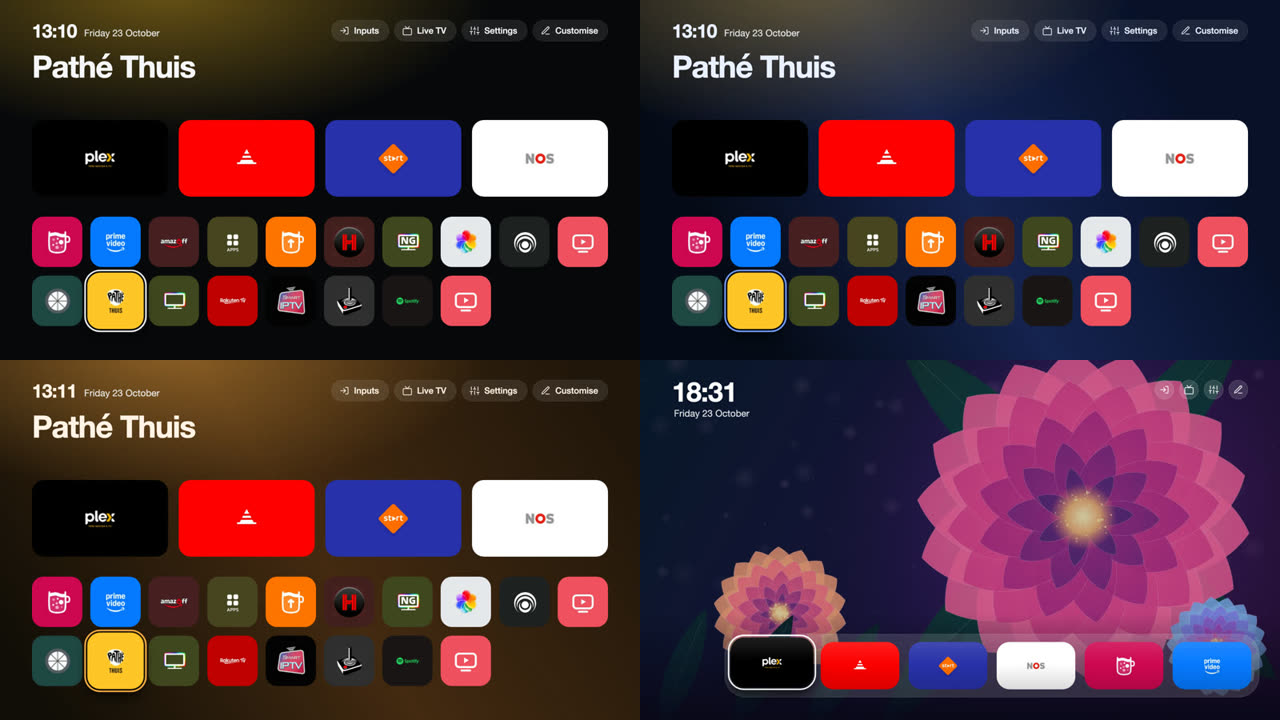
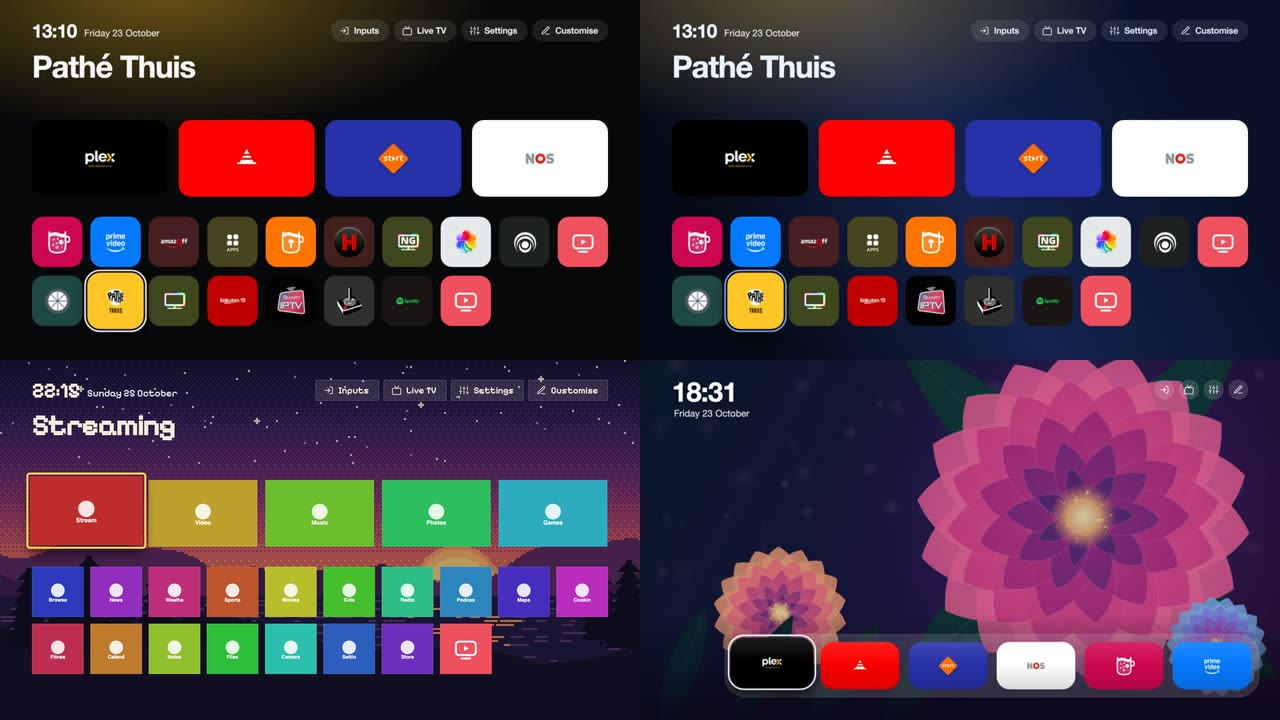
README and documentation home: install from the Homebrew Channel (the repository URL) next to the command over SSH. The README's theme picture shows Pixel instead of Warm.

diff --git a/README.md b/README.md
@@ -21,8 +21,8 @@ sets up, updates and removes everything.
 
 * **webOS**: 5 and newer (2020 models and later). webOS 4 and older have no systemd and an old Node.js; the setup stops before it
   changes anything. LG names its versions two ways: [webOS version numbers](https://lasharor.github.io/cleanyourtv-WebOS/tested-tvs/#webos-version-numbers) gives both.
-* **Access**: a TV rooted with the [Homebrew Channel](https://webosbrew.org) ([rootmy.tv](https://rootmy.tv)), SSH as `root` for
-  the install command, and internet access on the TV for the download.
+* **Access**: a TV rooted with the [Homebrew Channel](https://webosbrew.org) ([rootmy.tv](https://rootmy.tv)) and internet access
+  on the TV for the download. Install from the Homebrew Channel, or with one command over SSH as `root`.
 * **Tested hardware**: LG OLED65G26LA on webOS 25. Other TVs are reported in
   [Tested TVs](https://lasharor.github.io/cleanyourtv-WebOS/tested-tvs/); an unlisted firmware is set up when LG's Home is of the
   flutter or web kind, and otherwise the setup stops and offers **Set up anyway**.
@@ -34,11 +34,19 @@ sets up, updates and removes everything.
 ## Quick start
 
 1. Root the TV and install the [Homebrew Channel](https://webosbrew.org).
-2. From your computer, with your TV's IP address, install the manager app:
+2. Install the manager app, one of two ways:
+   - **From the Homebrew Channel.** Open the Homebrew Channel, the gear at the top, **Add repository**, and enter
 
-   ```sh
-   ssh root@192.168.1.50 'curl -fsSL https://raw.githubusercontent.com/lasharor/cleanyourtv-WebOS/main/install.sh | sh'
-   ```
+     ```text
+     https://github.com/lasharor/cleanyourtv-WebOS/releases/latest/download/apps.json
+     ```
+
+     **CleanYourTV** then shows in the channel's list: open it and choose **Install**. New releases show there as updates.
+   - **From your computer**, with your TV's IP address:
+
+     ```sh
+     ssh root@192.168.1.50 'curl -fsSL https://raw.githubusercontent.com/lasharor/cleanyourtv-WebOS/main/install.sh | sh'
+     ```
 
 3. On the TV, open **CleanYourTV**, choose the options and **Set up now**. It takes about a minute and the screen blinks once.
 
@@ -82,7 +90,7 @@ Pick how Home looks in the manager app: colours, the position and size of the cl
 speed. The themes are in [`themes/`](themes/) of this repository: the TV reads them from GitHub and downloads one when you choose it,
 so a new theme needs a pull request and no release ([how](https://lasharor.github.io/cleanyourtv-WebOS/themes/#contributing-a-theme)).
 
-<p align="center"><a href="themes/"><img src="docs/screenshots/themes-readme.jpg" alt="Classic, Midnight, Warm and Bloom themes" width="800"></a></p>
+<p align="center"><a href="themes/"><img src="docs/screenshots/themes-readme.jpg" alt="Classic, Midnight, Pixel and Bloom themes" width="800"></a></p>
 
 ---
 

diff --git a/docs/index.md b/docs/index.md
@@ -29,7 +29,7 @@ services you choose (update checks go to GitHub). See [What it changes on the TV
 
 | | |
 |---|---|
-| Needs | An LG webOS TV that is **rooted** with the Homebrew Channel, and SSH access as `root` for the install command. |
+| Needs | An LG webOS TV that is **rooted** with the Homebrew Channel. Install from the Homebrew Channel, or with one command over SSH as `root`. |
 | webOS | **webOS 5 and newer** (2020 models and later). webOS 4 and older have no systemd and an old Node.js; setup stops before it changes anything. |
 | Tested | LG OLED65G26LA on webOS 25. Other TVs are reported in [Tested TVs](tested-tvs.md). |
 | Not needed | A computer app, a server, a cloud account. The service runs on the TV. |
@@ -50,7 +50,8 @@ services you choose (update checks go to GitHub). See [What it changes on the TV
 ## Where to start
 
 1. Make sure the TV is rooted and has the Homebrew Channel ([rootmy.tv](https://rootmy.tv)).
-2. Follow [Installing](install.md): one command from your computer, then **Set up now** in the app on the TV.
+2. Follow [Installing](install.md): add CleanYourTV's repository to the Homebrew Channel (or run one command from your computer), then
+   **Set up now** in the app on the TV.
 3. Check the [tested TVs](tested-tvs.md) and report yours if it is not listed.
 
 ## Disclaimer

diff --git a/themes/README.md b/themes/README.md
@@ -5,7 +5,7 @@ dock and grid, text, effects and a wallpaper. In the manager app, **Theme** list
 from GitHub (the `main` branch) and downloads a theme when you choose it. A new theme is available to every TV as soon as it is merged,
 without a release.
 
-[![Classic, Midnight, Warm and Bloom](../docs/screenshots/themes-readme.jpg)](../docs/screenshots/themes-readme.jpg)
+[![Classic, Midnight, Pixel and Bloom](../docs/screenshots/themes-readme.jpg)](../docs/screenshots/themes-readme.jpg)
 
 | File | What it is |
 |---|---|
